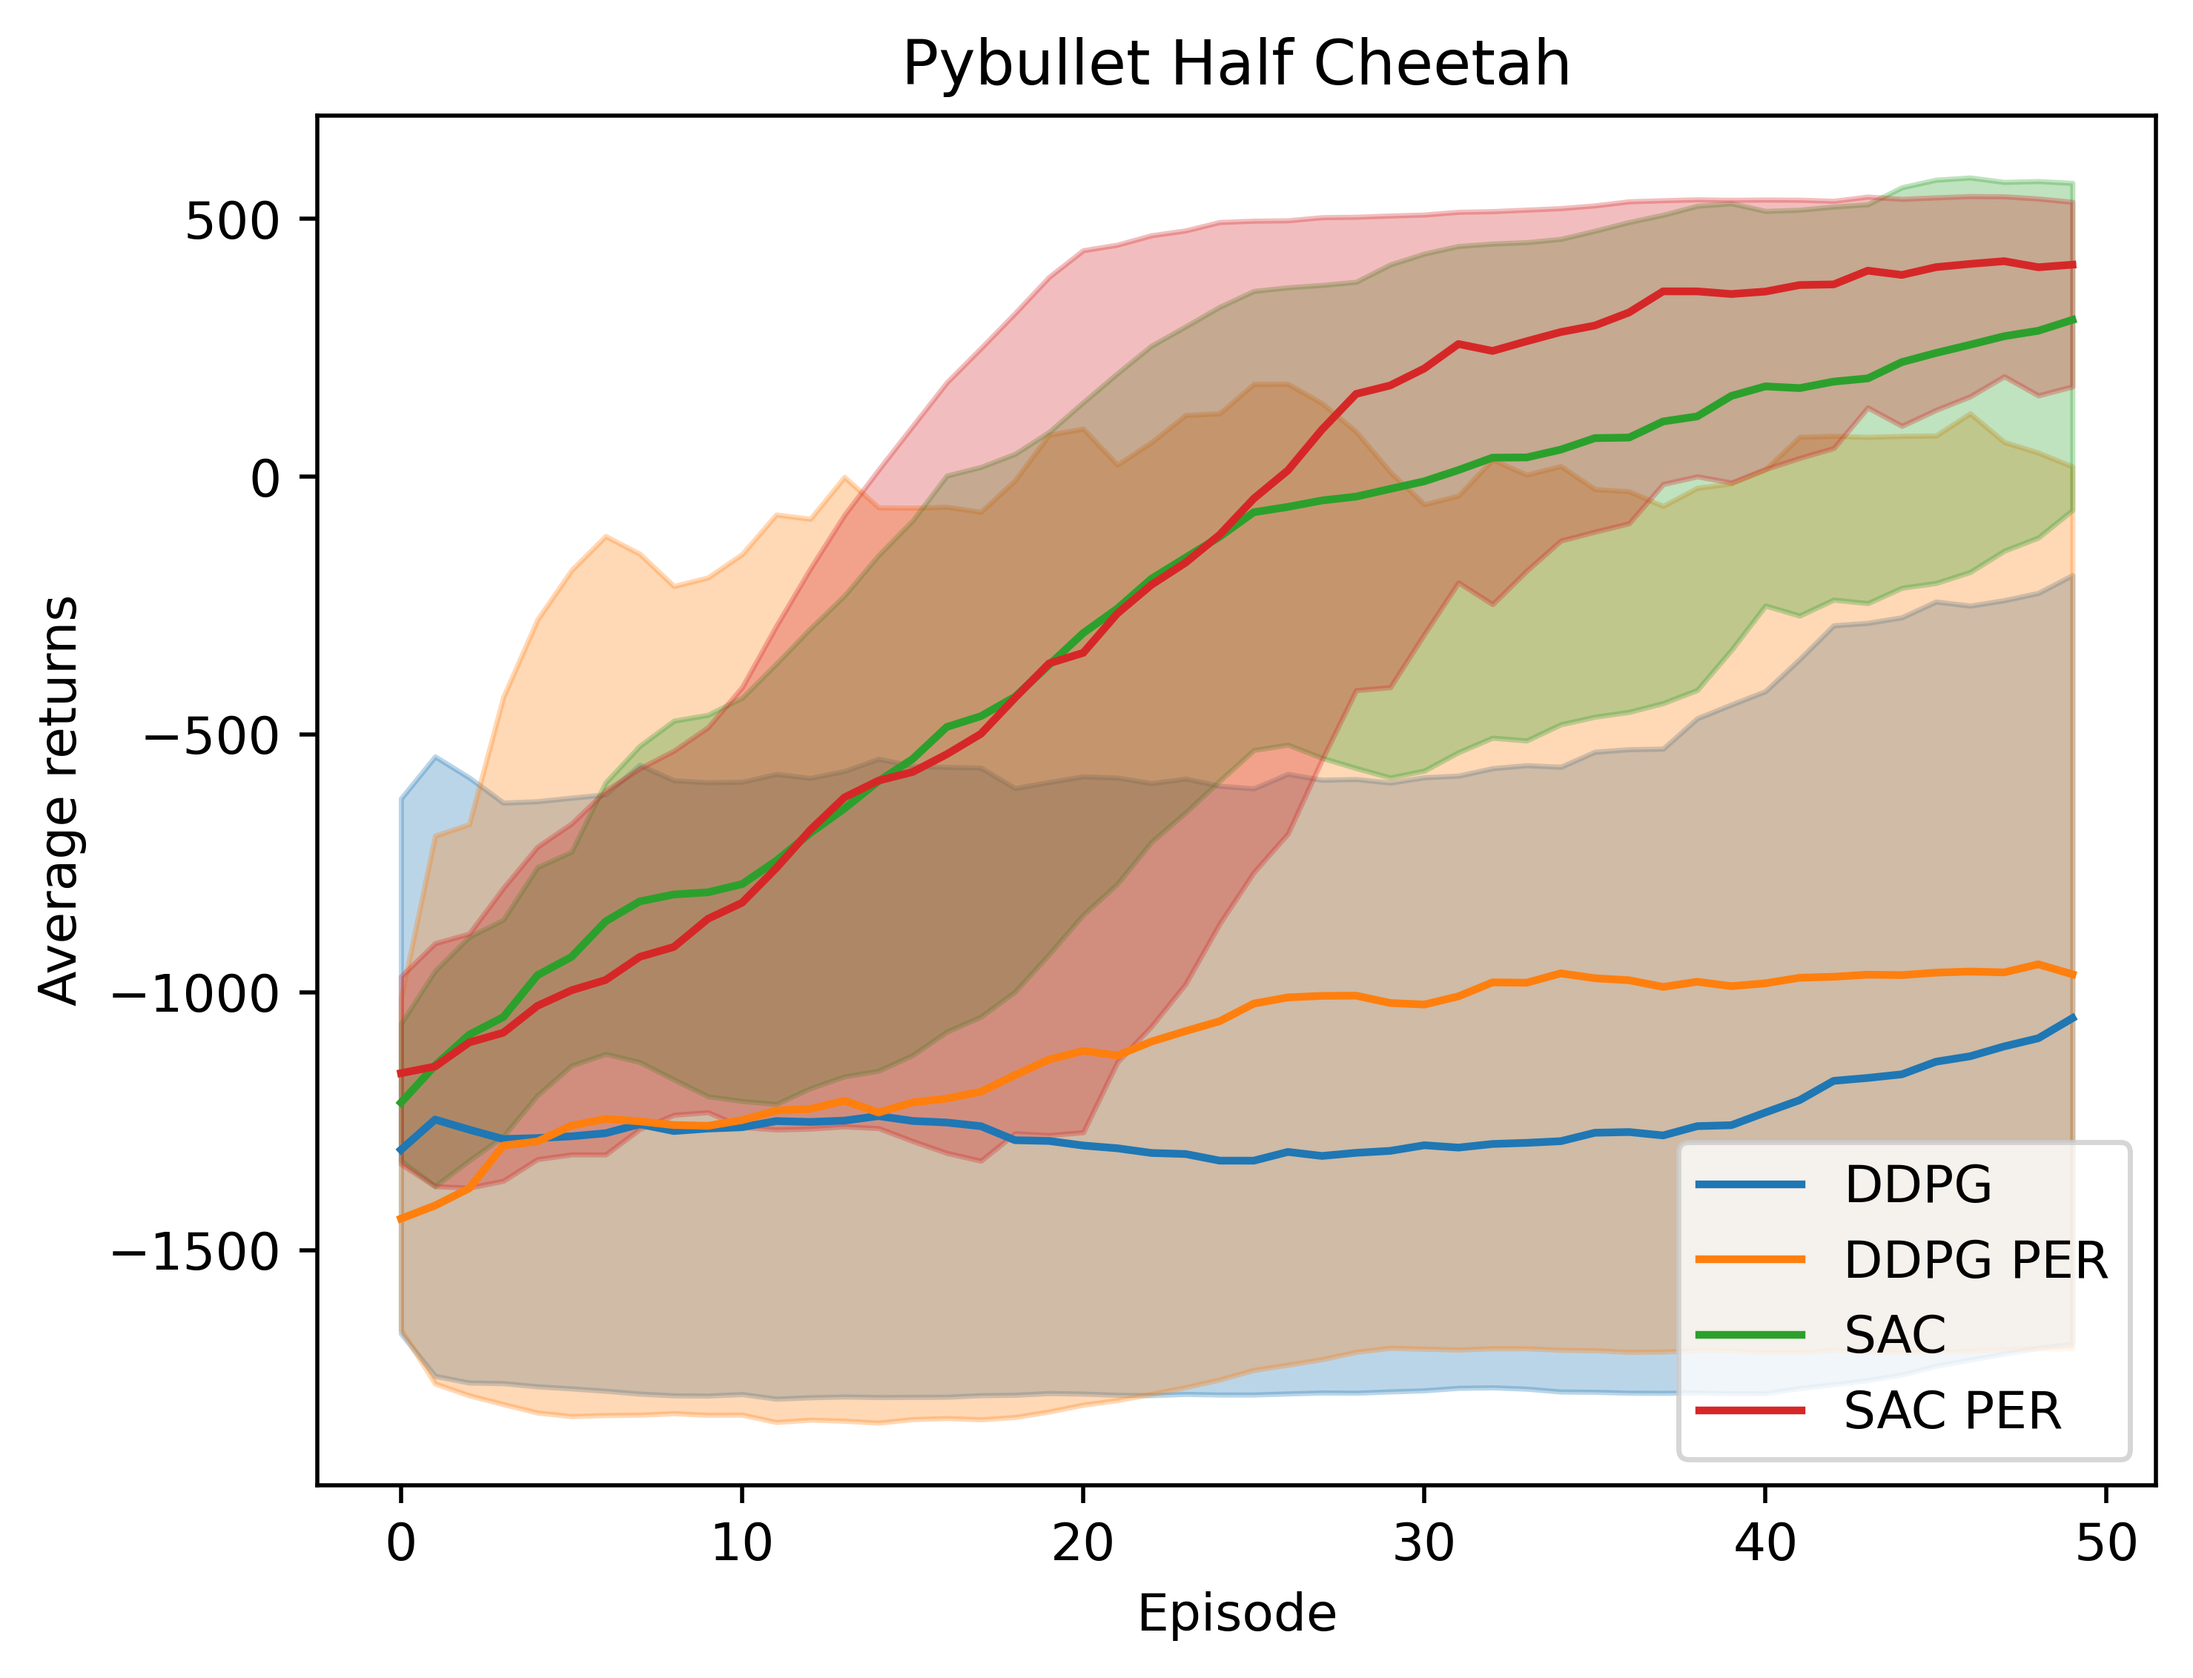
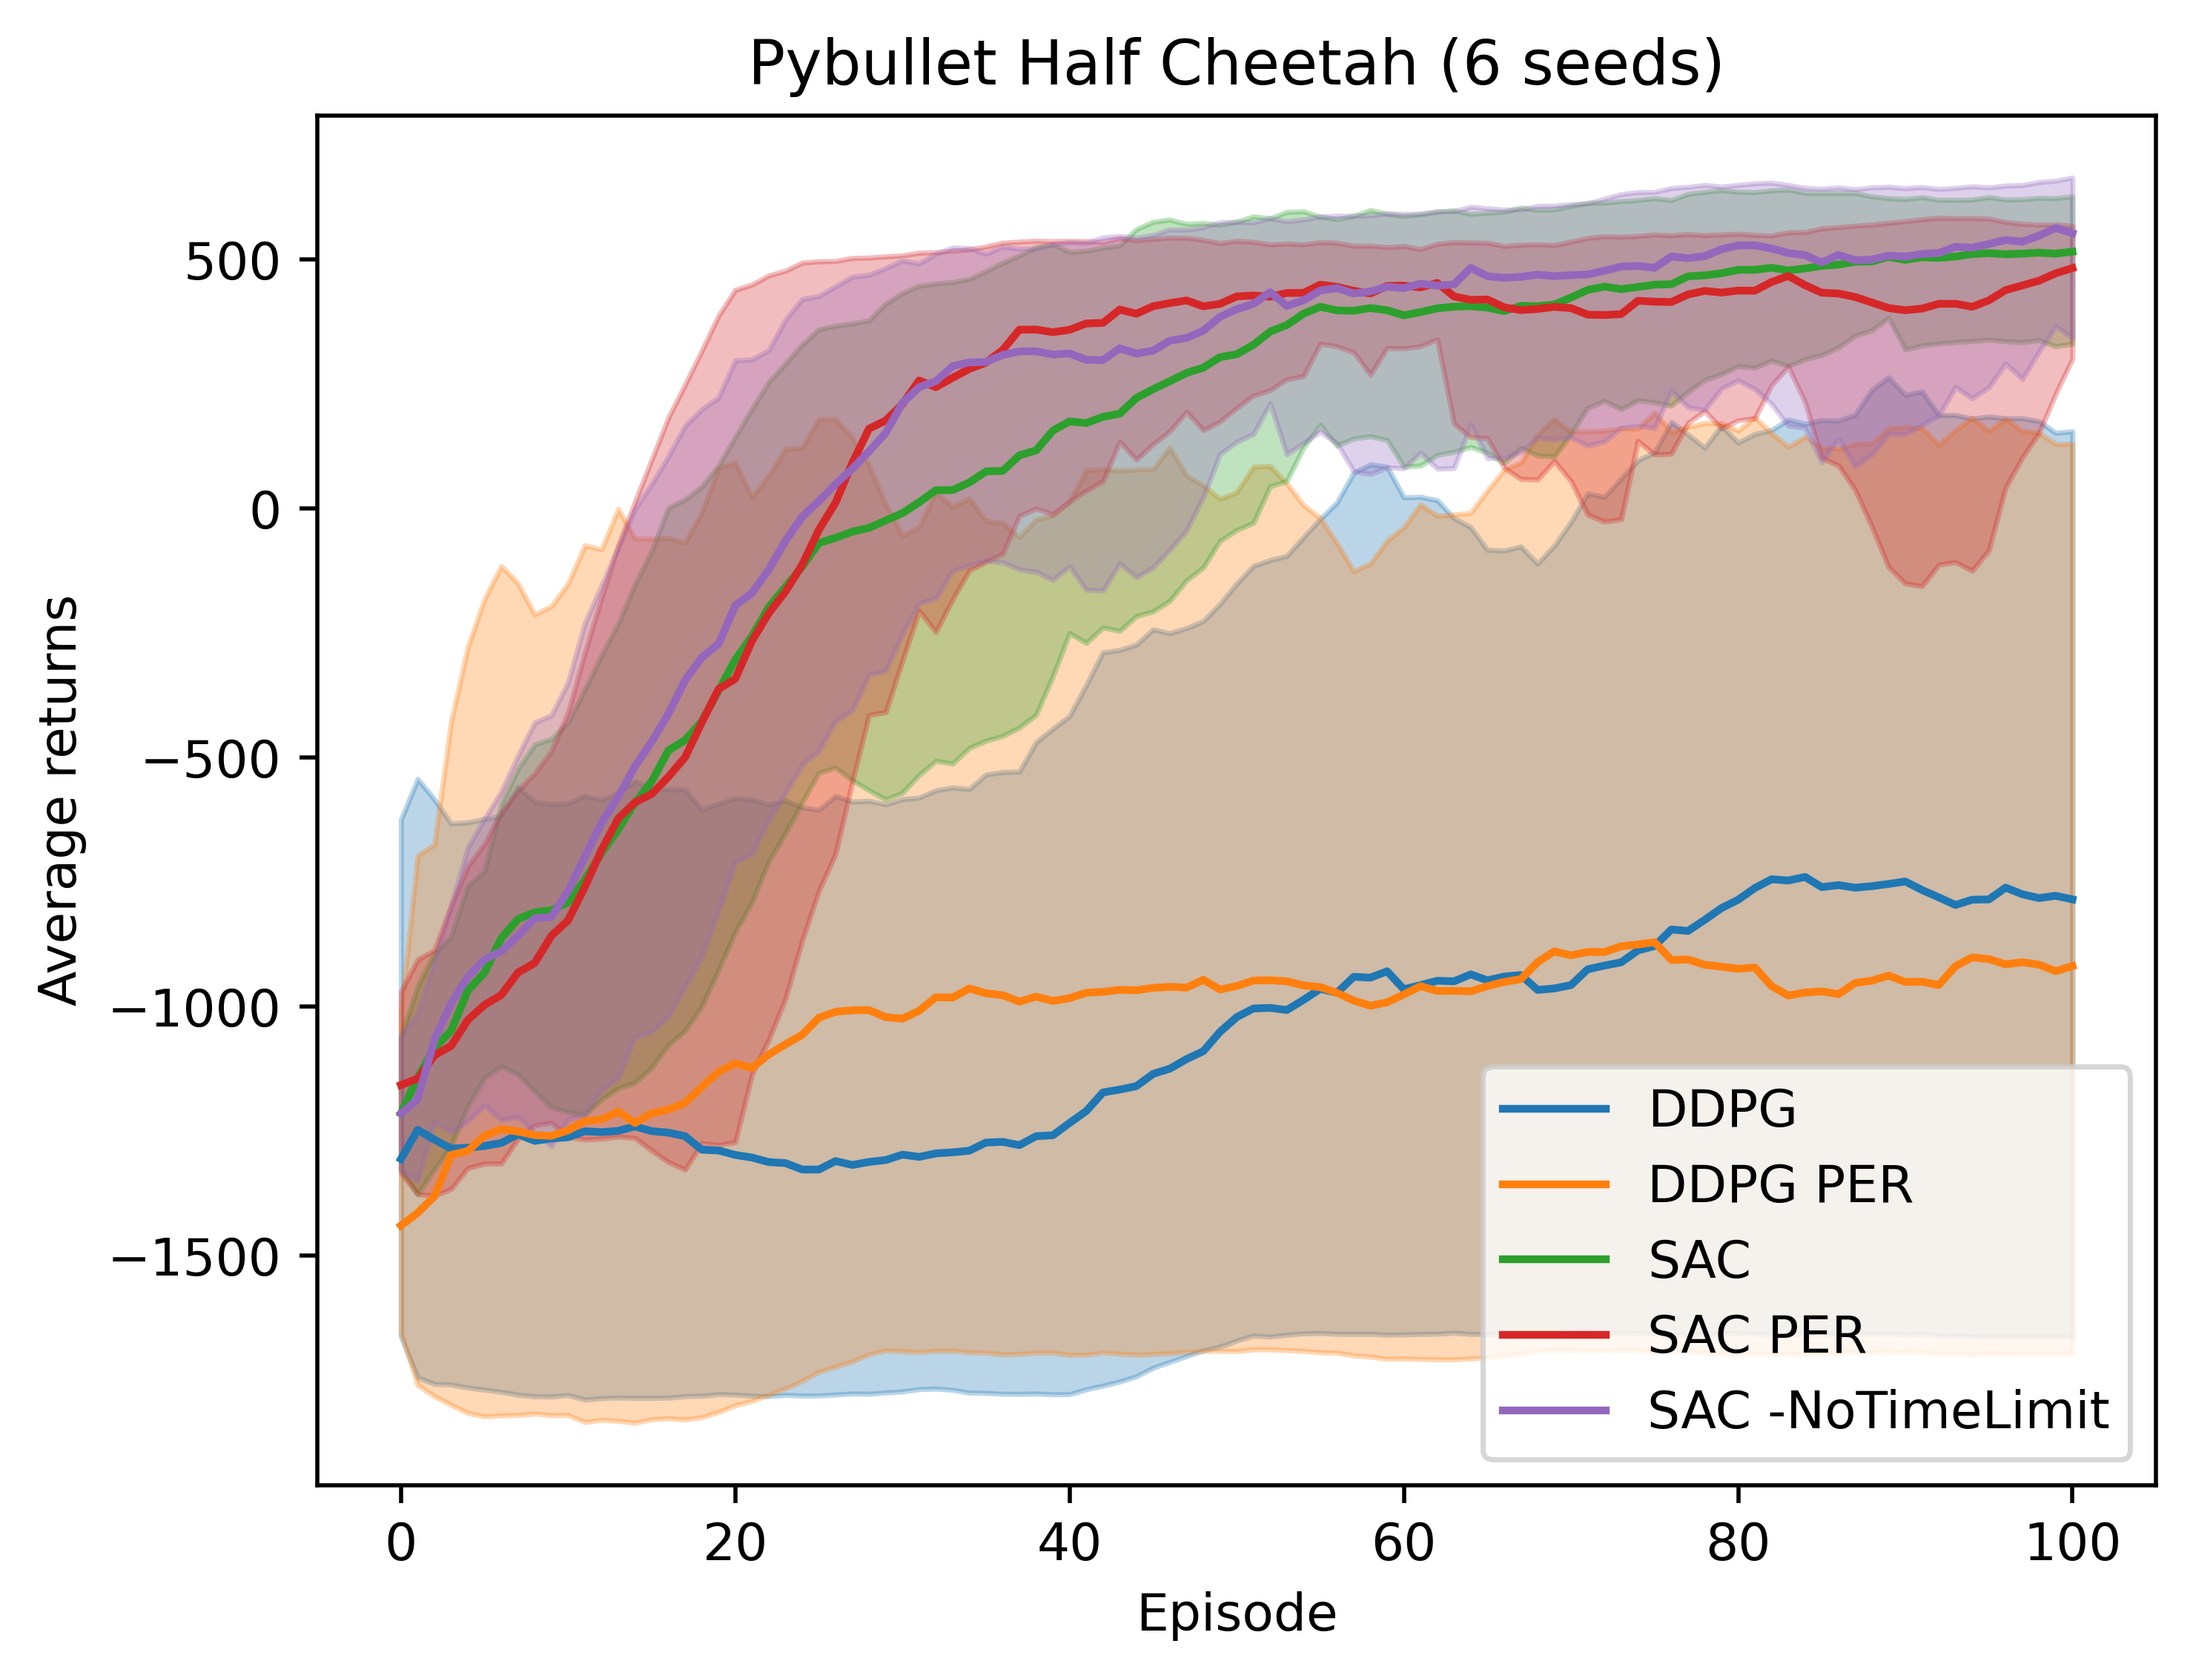
update results, figures, README

diff --git a/src/data_processing.py b/src/data_processing.py
@@ -14,7 +14,7 @@ plot.smoothed_plot_mean_deviation(os.path.join(path, 'src', 'returns_pybullet_ku
                                   [return_ddpg_her, return_ddpg_pher, return_sac_her, return_sac_pher],
                                   legend=['DDPG HER', 'DDPG PHER', 'SAC HER', 'SAC PHER'],
                                   legend_loc='lower right',
-                                  title='Pybullet Kuka Reach',
+                                  title='Pybullet Kuka Reach (6 seeds)',
                                   window=20,
                                   x_label='Cycle', y_label='Average returns')
 
@@ -30,15 +30,16 @@ plot.smoothed_plot_mean_deviation(os.path.join(path, 'src', 'returns_pybullet_ku
 #                                   window=20,
 #                                   x_label='Cycle', y_label='Average success_rates')
 
-return_ddpg_her = json.load(open(os.path.join(path, 'exp_continuous_gym', 'ddpg', 'return_statistic.json')))
-return_ddpg_pher = json.load(open(os.path.join(path, 'exp_continuous_gym', 'ddpg_per', 'return_statistic.json')))
-return_sac_her = json.load(open(os.path.join(path, 'exp_continuous_gym', 'sac', 'return_statistic.json')))
-return_sac_pher = json.load(open(os.path.join(path, 'exp_continuous_gym', 'sac_per', 'return_statistic.json')))
+return_ddpg = json.load(open(os.path.join(path, 'exp_continuous_gym', 'ddpg', 'return_statistic.json')))
+return_ddpg_per = json.load(open(os.path.join(path, 'exp_continuous_gym', 'ddpg_per', 'return_statistic.json')))
+return_sac = json.load(open(os.path.join(path, 'exp_continuous_gym', 'sac', 'return_statistic.json')))
+return_sac_per = json.load(open(os.path.join(path, 'exp_continuous_gym', 'sac_per', 'return_statistic.json')))
+return_sac_time_limit = json.load(open(os.path.join(path, 'exp_continuous_gym', 'sac_discard_time_limite', 'return_statistic.json')))
 
 plot.smoothed_plot_mean_deviation(os.path.join(path, 'src', 'returns_half_cheetah.png'),
-                                  [return_ddpg_her, return_ddpg_pher, return_sac_her, return_sac_pher],
-                                  legend=['DDPG', 'DDPG PER', 'SAC', 'SAC PER'],
+                                  [return_ddpg, return_ddpg_per, return_sac, return_sac_per, return_sac_time_limit],
+                                  legend=['DDPG', 'DDPG PER', 'SAC', 'SAC PER', 'SAC -NoTimeLimit'],
                                   legend_loc='lower right',
-                                  title='Pybullet Half Cheetah',
+                                  title='Pybullet Half Cheetah (6 seeds)',
                                   window=10,
                                   x_label='Episode', y_label='Average returns')

diff --git a/README.md b/README.md
@@ -37,7 +37,7 @@
 <img src="/src/returns_pybullet_kuka_reach.png" width="350"/>
 <img src="/src/returns_half_cheetah.png" width="350"/>
 
-#### Reference Papers
+#### Reference Papers: Algorithm
 * [DQN](https://www.nature.com/articles/nature14236?wm=book_wap_0005)
 * [DoubleDQN](https://www.aaai.org/ocs/index.php/AAAI/AAAI16/paper/viewPaper/12389)
 * [LSTM network on raw Atari pixel observation](https://arxiv.org/pdf/1907.02908.pdf)
@@ -52,6 +52,11 @@
 * [OptionCritic](https://www.aaai.org/ocs/index.php/AAAI/AAAI17/paper/viewPaper/14858)
 * [D4PG](https://arxiv.org/abs/1804.08617)
 * [R2D2](https://openreview.net/pdf?id=r1lyTjAqYX)
+
+#### Reference Papers: Implementation Matters
+* [Time limit](https://arxiv.org/abs/1712.00378)
+* [SOTA PPO Hyperparameters (many applicable to other algorithms)](https://arxiv.org/abs/2006.05990)
+* [SAC Temperature Auto-tuning](https://arxiv.org/abs/1812.05905)
 
 #### Reference Repos
 * [RL-Adventure-DDPG by higgsfield](https://github.com/higgsfield/RL-Adventure-2/blob/master/5.ddpg.ipynb)
